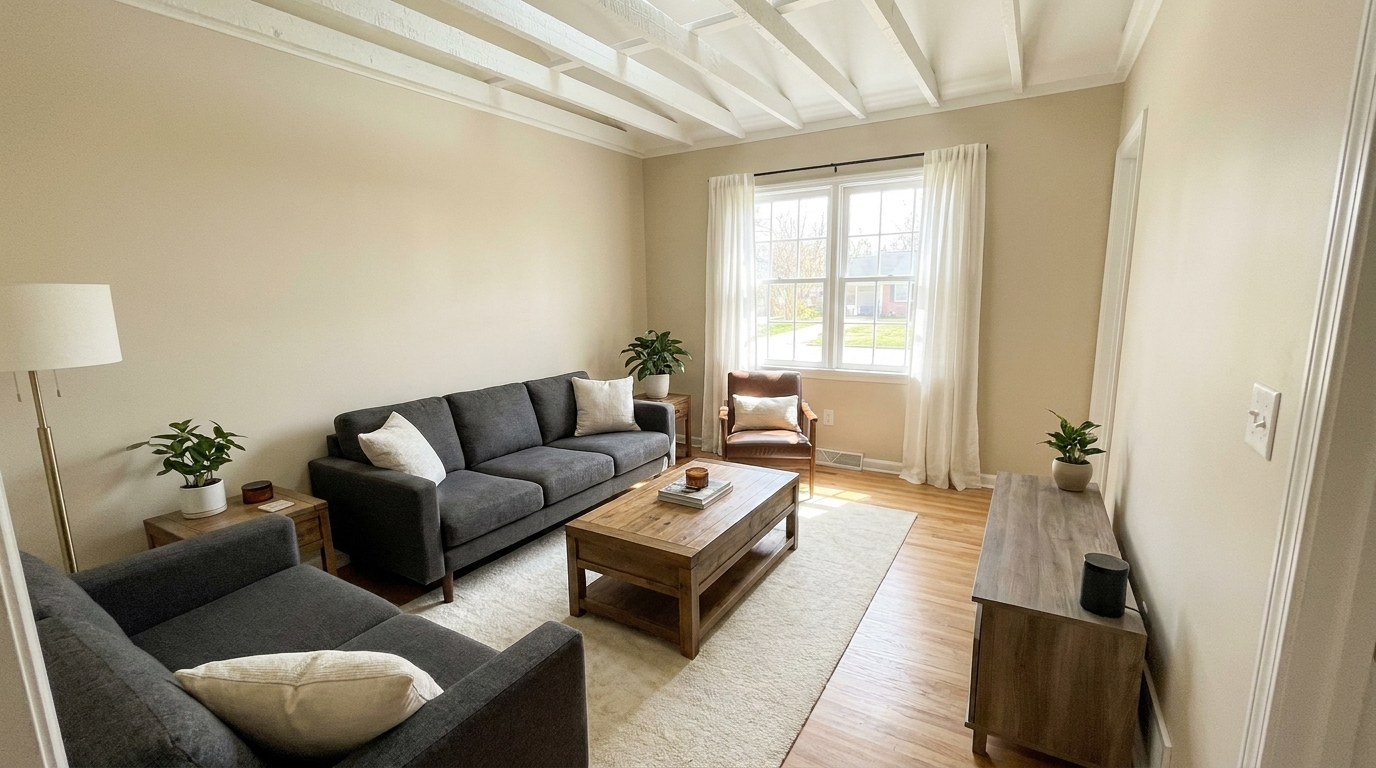
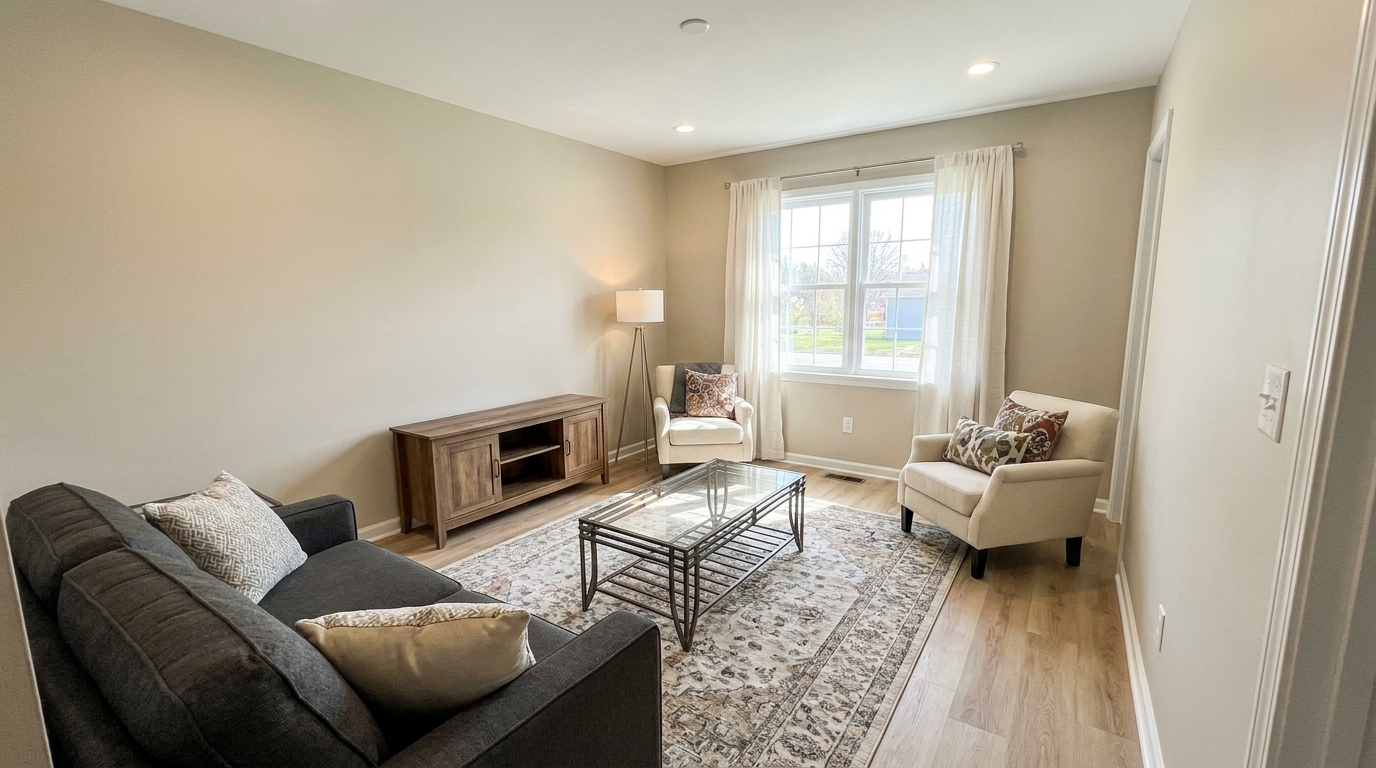
pair engine: finished-room law (closed ceilings, no leftover materials, clean/replaced furniture, fresh bedding), roofing pair kind, EVEN-count law (3+ trims; storm outranks mold in trim order); heritage regen 4 pairs incl roofing, FIX at 4 (water/fire/sewage/storm)

diff --git a/sites/bcp-flood-pros-allison-harris/src/data/work.ts b/sites/bcp-flood-pros-allison-harris/src/data/work.ts
@@ -33,13 +33,6 @@ export const workPairs: BeforeAfterPair[] = [
     afterAlt: "Same living room fully rebuilt and restored after fire damage",
   },
   {
-    label: "Mold Remediation",
-    beforeSrc: "/images/before-after/mold-before.webp",
-    beforeAlt: "Bathroom wall with spreading mold before remediation",
-    afterSrc: "/images/before-after/mold-after.webp",
-    afterAlt: "Same bathroom wall clean and repainted after mold remediation",
-  },
-  {
     label: "Sewage Cleanup",
     beforeSrc: "/images/before-after/sewage-before.webp",
     beforeAlt: "Basement flooded wall to wall by a sewage backup before cleanup",

diff --git a/sites/heritage-restoration-llc/src/data/work.ts b/sites/heritage-restoration-llc/src/data/work.ts
@@ -33,5 +33,12 @@ export const workPairs: BeforeAfterPair[] = [
     beforeAlt: "Bedroom with collapsed ceiling and storm debris before repair",
     afterSrc: "/images/before-after/storm-after.webp",
     afterAlt: "Same bedroom with rebuilt ceiling after storm damage restoration",
+  },
+  {
+    label: "Roof Replacement",
+    beforeSrc: "/images/before-after/roofing-before.webp",
+    beforeAlt: "Roof with torn and missing shingles before replacement",
+    afterSrc: "/images/before-after/roofing-after.webp",
+    afterAlt: "Same roof fully replaced with new architectural shingles",
   }
 ];

diff --git a/scripts/gen_site_images.py b/scripts/gen_site_images.py
@@ -336,8 +336,9 @@ PAIR_CATALOG: list[tuple[str, set, str, str, str, str, str]] = [
      "noticeably lighter different wood tone, the new planks laid in the "
      "PERPENDICULAR direction to the old floor so the replacement is "
      "unmistakable (an obvious upgrade, never a downgrade like carpet), "
-     "new baseboards, lower walls repaired and "
-     "freshly painted, everything dry and bright",
+     "new baseboards, lower walls repaired and freshly painted, the "
+     "furniture professionally cleaned or replaced (no stains), no "
+     "leftover materials, rugs or debris anywhere, dry and bright",
      "Flooded living room with standing water before restoration",
      "Same living room with new premium plank flooring and repaired "
      "walls after restoration"),
@@ -350,23 +351,14 @@ PAIR_CATALOG: list[tuple[str, set, str, str, str, str, str]] = [
      "the floor, daylight through a smoke-stained window. Shot on a "
      "phone, no people, no flames, no text.",
      "the SAME living room fully rebuilt and restored after fire damage "
-     "restoration: new drywall walls and ceiling freshly painted, new "
+     "restoration: new drywall walls and a fully CLOSED finished drywall "
+     "ceiling (no exposed beams, joists or framing), freshly painted, new "
      "flooring, the burned furniture HAULED AWAY and replaced with "
      "different brand-new furnishings, the same window spotless, room "
      "bright",
      "Living room with severe fire damage and charred walls before "
      "restoration",
      "Same living room fully rebuilt and restored after fire damage"),
-    ("mold", {"mold-remediation", "mold-removal", "mold-inspection"},
-     "Mold Remediation",
-     "Corner of a bathroom wall and ceiling overtaken by a large spreading "
-     "colony of black and dark-green mold climbing from the baseboard to "
-     "the ceiling, paint bubbling and peeling, heavy staining. Shot on a "
-     "phone, close enough to see texture, no people, no text.",
-     "the SAME bathroom corner fully remediated: mold completely gone, "
-     "surfaces repaired and repainted a clean bright white, dry",
-     "Bathroom wall with spreading mold before remediation",
-     "Same bathroom wall clean and repainted after mold remediation"),
     ("sewage", {"sewage-cleanup", "sewage-backup-cleanup"},
      "Sewage Cleanup",
      "A finished basement after a MAJOR sewage backup: several inches of "
@@ -385,9 +377,30 @@ PAIR_CATALOG: list[tuple[str, set, str, str, str, str, str]] = [
      "down the wall. Shot on a phone, no people, no text.",
      "the SAME bedroom fully repaired after storm damage restoration: "
      "ceiling rebuilt with new drywall and seamless finish, freshly "
-     "painted, debris cleared, room clean and dry",
+     "painted, debris cleared, the bed remade with brand-new bedding in "
+     "a different color, room clean and dry",
      "Bedroom with collapsed ceiling and storm debris before repair",
      "Same bedroom with rebuilt ceiling after storm damage restoration"),
+    ("mold", {"mold-remediation", "mold-removal", "mold-inspection"},
+     "Mold Remediation",
+     "Corner of a bathroom wall and ceiling overtaken by a large spreading "
+     "colony of black and dark-green mold climbing from the baseboard to "
+     "the ceiling, paint bubbling and peeling, heavy staining. Shot on a "
+     "phone, close enough to see texture, no people, no text.",
+     "the SAME bathroom corner fully remediated: mold completely gone, "
+     "surfaces repaired and repainted a clean bright white, dry",
+     "Bathroom wall with spreading mold before remediation",
+     "Same bathroom wall clean and repainted after mold remediation"),
+    ("roofing", {"roofing", "roofing-services", "roof-leak-repair"},
+     "Roof Replacement",
+     "Close view of a residential asphalt-shingle roof with severe storm "
+     "damage: torn and missing shingles, exposed dark underlayment "
+     "patches, lifted edges. Shot on a phone from a ladder, no people, "
+     "no text.",
+     "the SAME roof fully replaced with brand-new architectural "
+     "shingles, crisp clean lines, new flashing",
+     "Roof with torn and missing shingles before replacement",
+     "Same roof fully replaced with new architectural shingles"),
     ("carpet", {"carpet-cleaning"},
      "Carpet Cleaning",
      "Wall-to-wall beige carpet in a lived-in family room, heavily soiled "
@@ -440,7 +453,11 @@ def generate_pairs(*, slug: str, geo: str, guide: str) -> None:
     services = set(json.loads(
         (ROOT / "clients" / slug / "plan-input.json").read_text()
     ).get("services") or [])
-    picks = [c for c in PAIR_CATALOG if c[1] & services][:5]
+    picks = [c for c in PAIR_CATALOG if c[1] & services][:6]
+    # EVEN COUNT LAW (Santino 2026-09-22): the slider grid never renders an
+    # odd number of pairs — 3+ trims to the nearest even.
+    if len(picks) >= 3 and len(picks) % 2:
+        picks = picks[:-1]
     if not picks:
         print("  pairs: no catalog match for this client's services")
         return
@@ -464,7 +481,10 @@ def generate_pairs(*, slug: str, geo: str, guide: str) -> None:
                     "Using the attached photo of this exact room, produce "
                     f"{after_edit}. IDENTICAL camera angle and "
                     "architecture — the same room after professional "
-                    "restoration. Photorealistic, no text.",
+                    "restoration, COMPLETELY FINISHED: no exposed framing "
+                    "or beams, no leftover materials, tools or debris, "
+                    "all furniture and textiles clean or brand new. "
+                    "Photorealistic, no text.",
                     aspect_ratio="16:9", reference_png=before_png)
                 a_p.write_bytes(after_png)
                 print(f"  pairs: {kind}-after generated (edit of before)")
